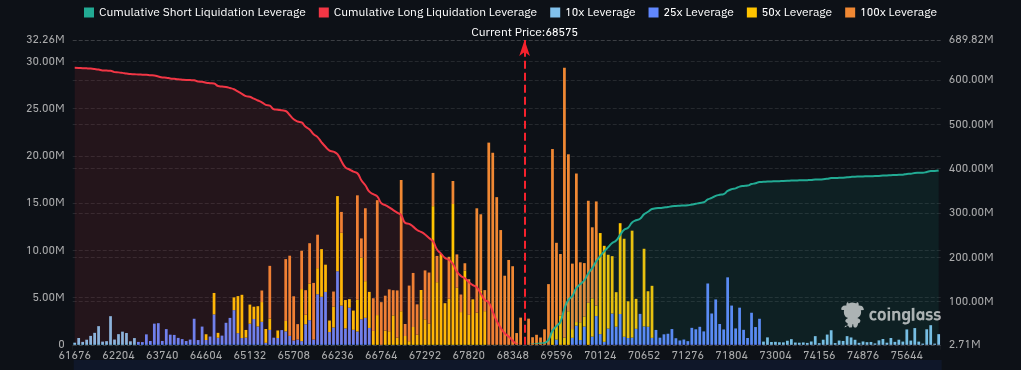
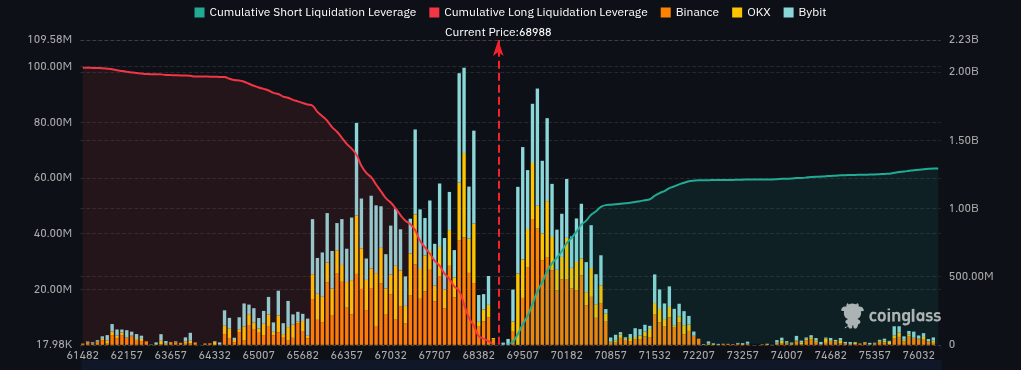
Liq Map: update proxy to use Dustin's new /api/charts/btc-liquidation-map endpoint

diff --git a/api/liq-map-img.js b/api/liq-map-img.js
@@ -1,7 +1,7 @@
 export default async function handler(req, res) {
   res.setHeader('Access-Control-Allow-Origin', '*');
   try {
-    const r = await fetch('http://46.202.177.190:3001/api/charts/liquidation-map');
+    const r = await fetch('http://46.202.177.190:3001/api/charts/btc-liquidation-map');
     if (!r.ok) throw new Error(`Upstream ${r.status}`);
     const buf = await r.arrayBuffer();
     res.setHeader('Content-Type', 'image/png');
